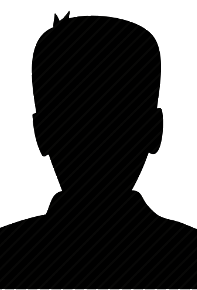
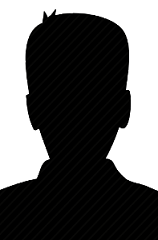
.

diff --git a/account-portlet/docroot/WEB-INF/src/br/com/abware/accountmgm/bean/CameraBean.java b/account-portlet/docroot/WEB-INF/src/br/com/abware/accountmgm/bean/CameraBean.java
@@ -31,7 +31,9 @@ public class CameraBean {
 
 	private Image image;
 
-	private CroppedImage croppedImage;	
+	private CroppedImage croppedImage;
+	
+	private boolean render;
 
 	public CameraBean(int width, int height) {
 		this();
@@ -121,6 +123,14 @@ public class CameraBean {
 
 	public void setCroppedImage(CroppedImage croppedImage) {
 		this.croppedImage = croppedImage;
+	}
+
+	public boolean isRender() {
+		return render;
+	}
+
+	public void setRender(boolean render) {
+		this.render = render;
 	}
 
 }

diff --git a/account-portlet/docroot/WEB-INF/src/br/com/abware/accountmgm/bean/PersonBean.java b/account-portlet/docroot/WEB-INF/src/br/com/abware/accountmgm/bean/PersonBean.java
@@ -76,8 +76,8 @@ public class PersonBean extends BaseBean implements Observer {
 	public PersonBean() {
 		person = new Person();
 		filters = new HashMap<String, Object>();
-		imageUploadBean = new ImageUploadBean(198, 300);
-		cameraBean = new CameraBean(320, 240);
+		imageUploadBean = new ImageUploadBean(158, 240);
+		cameraBean = new CameraBean(158, 240);
 		genders = Arrays.asList(Gender.values());
 	}
 	
